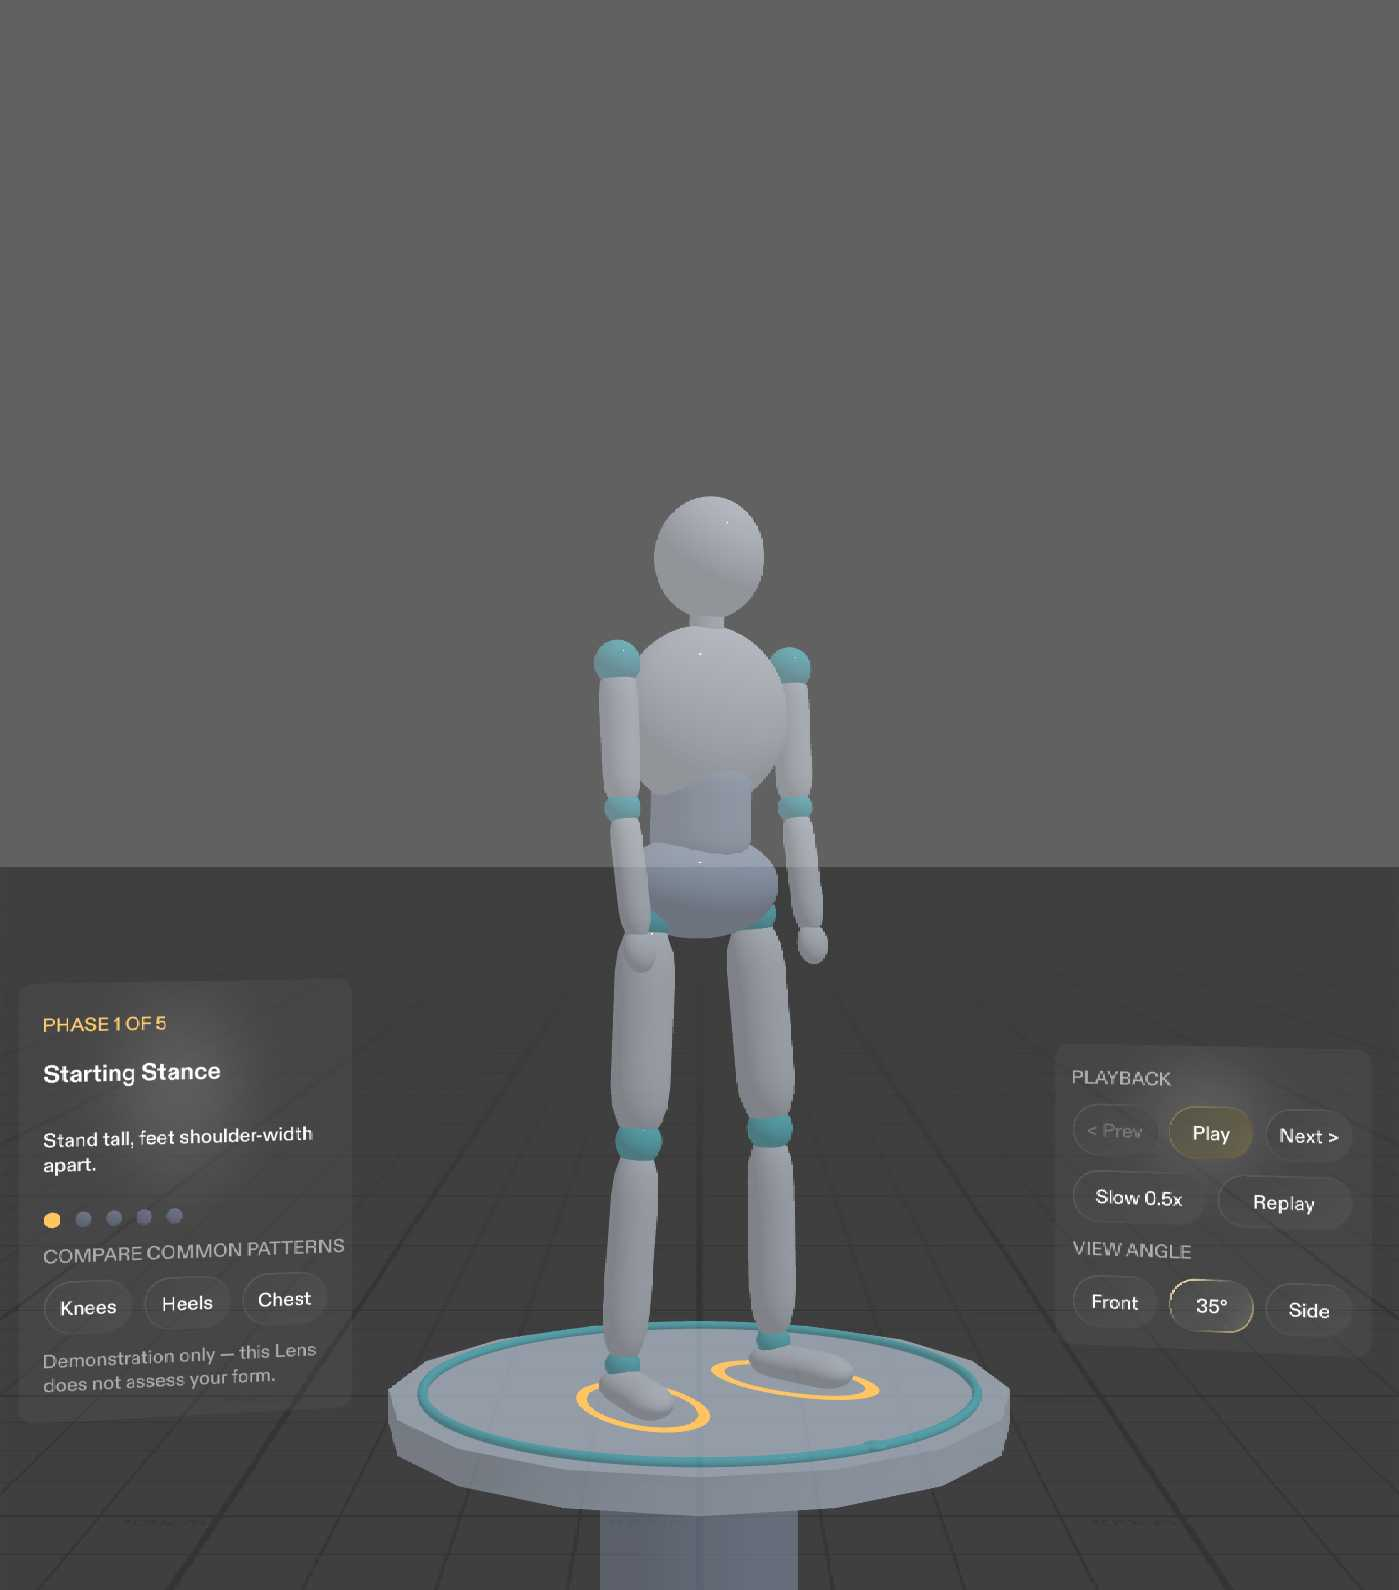
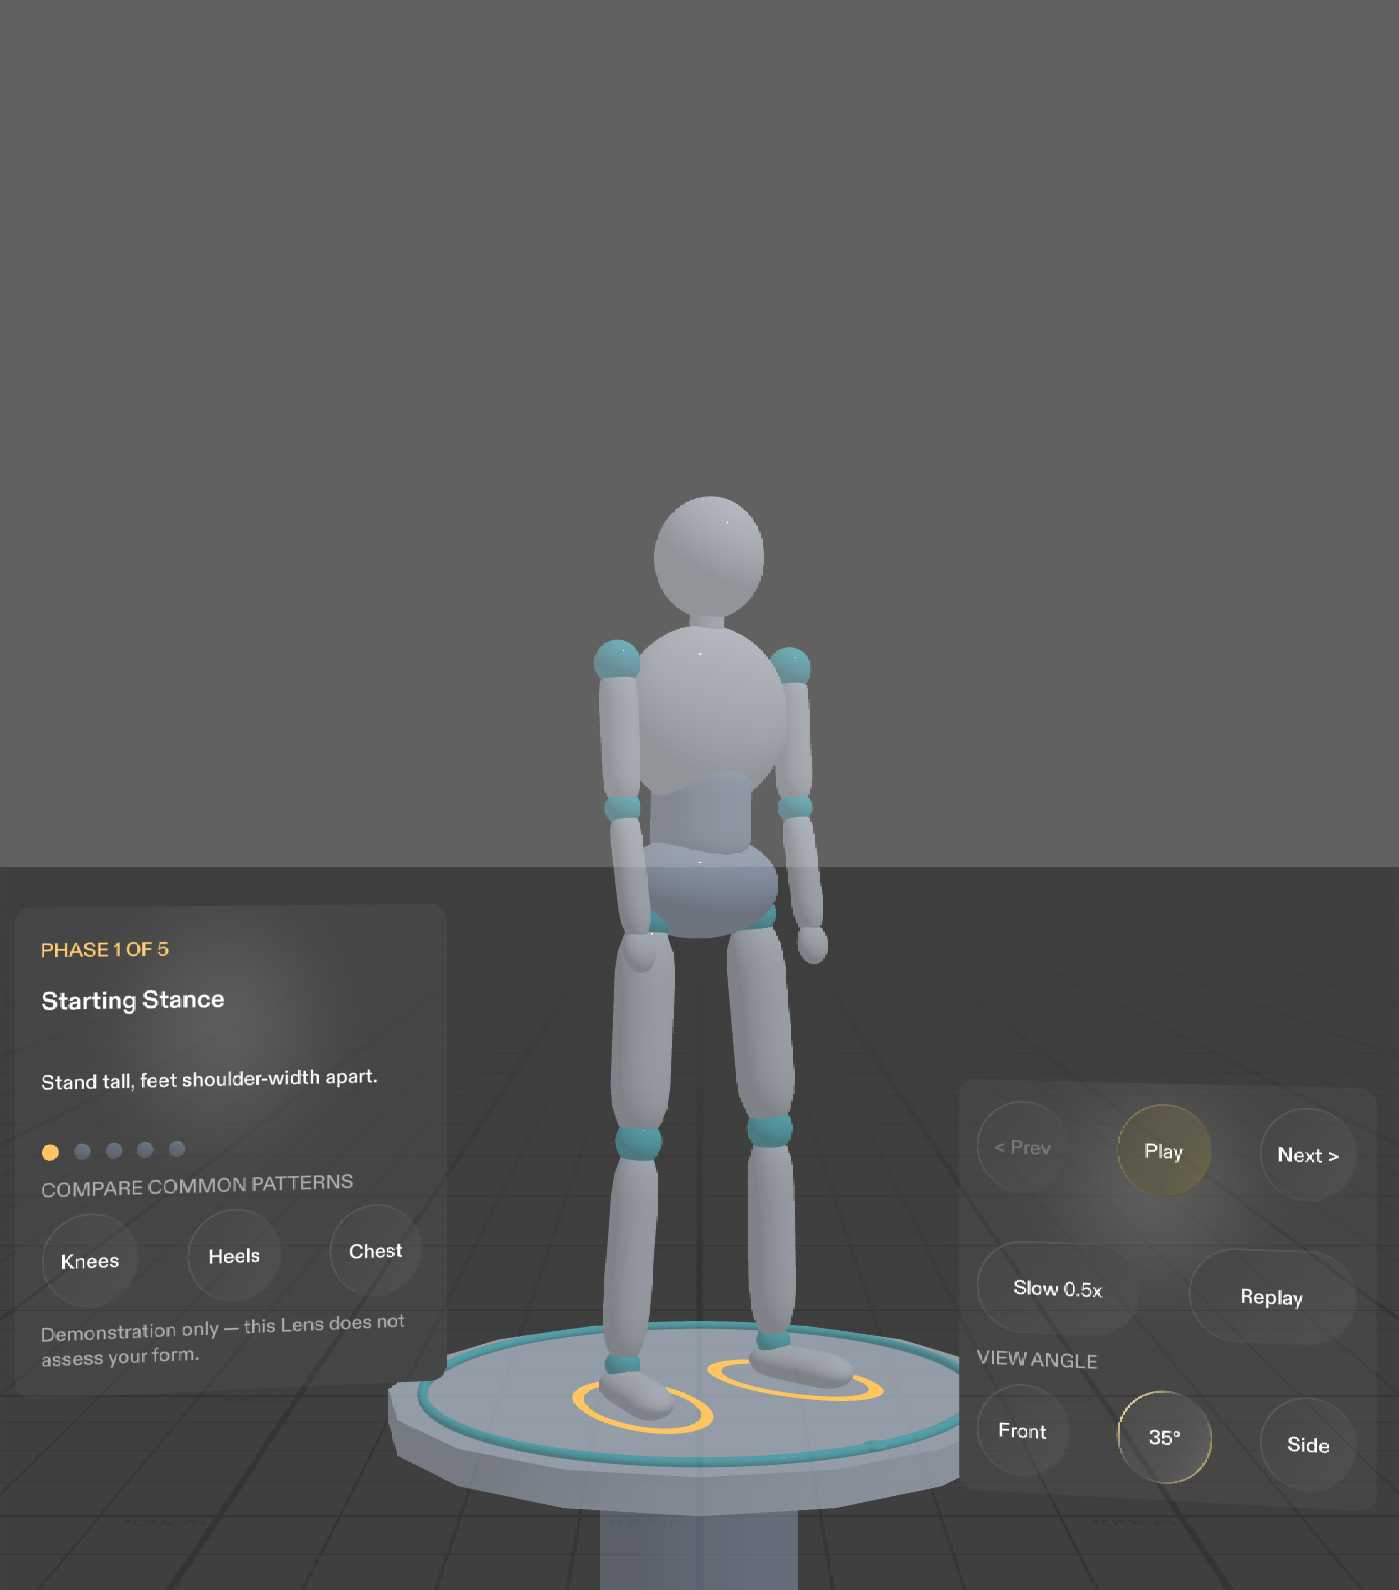
docs(screenshots): recapture the final set for 83e71bc, archive the old set
All 15 screenshots were recaptured in the Lens Studio 5.24.1 preview
(SPECS 27, Interactive) from the start position, using the capture hook.
07 is a crop of 04. The 31 Oct pre-build set moves unchanged to
docs/screenshots/archive-2026-10-31/ with a header marking it historical.

diff --git a/docs/screenshots/README.md b/docs/screenshots/README.md
@@ -1,30 +1,27 @@
-# Screenshot index
+# Screenshot index (final build)
 
-All images are real captures of the running Lens in the **Lens Studio 5.24.1 preview** (device SPECS 27, Interactive input). None are Scene-viewport renders or edited images.
+**Status: FINAL for build `83e71bc`** (branch `feature/coach-eye`), captured on 1 Nov 2026. The earlier set (31 Oct 2026, pre-build copy and 3.4 cm buttons) is archived, unchanged, in `archive-2026-10-31/`. Use only this folder for the README, Devpost and the video plan.
 
-**Build:** branch `feature/coach-eye`, captured on 31 Oct 2026, and every image matches the final build `2201d21`:
-- `01`–`06` and `08`–`12` come from `0029122`. Later commits changed only the comparison card and pattern poses, which these screens don't show.
-- `13` comes from `643a8bb`, `15` from `78381e9` (after the chest-arm fix), and `14` from `2201d21` (after the view-label fix).
-- `07` is from the `main` build: a close-up of the control panel, which is unchanged.
+All images are real captures of the running Lens in the **Lens Studio 5.24.1 preview** (device SPECS 27, Interactive input), taken with the Preview panel capture tool at 1399 × 1590 px. None are Scene-viewport renders or edited images; `07` is a crop of `04` (nothing else is changed). They show preview behaviour only, not SPECS hardware.
 
-Each shot is taken from the user's start position (preview camera reset to the origin). Phase, angle and comparison shots were opened directly with the controller's capture hook (`startPhase` / `startAngle` / `startFault`). The hook is off by default (−1 / empty) and isn't used in normal launches.
+Each shot is taken from the user's start position (preview camera not moved). Phase, angle and comparison shots were opened with the controller's capture hook (`startPhase` / `startAngle` / `startFault`); `11` used `startPhase` 5, which autoplays to the end. The hook was reset to normal launch (−1 / empty) and saved afterwards.
 
 | File | Shows |
 |---|---|
-| `01-hero-intro.jpg` | First launch: intro card ("Watch a squat in five phases. Then compare three common patterns…"), disclaimer, the figure at 35°, and Start. |
-| `02-phase1-starting-stance.jpg` | Phase 1 with thin amber foot outlines; Prev dimmed; the "COMPARE COMMON PATTERNS" row. |
-| `03-phase2-controlled-descent.jpg` | Phase 2 with knee arrows along the toes. |
-| `04-phase3-bottom-position.jpg` | Phase 3 (target Bottom Position) with the hip marker. |
-| `05-phase4-rising-up.jpg` | Phase 4, more upright than the descent. |
+| `01-hero-intro.jpg` | First launch: "SPATIAL SQUAT COMPARISON", "Coach's Eye", the approved intro sentence (4 lines), the disclaimer, and Start (22.4 × 5.8 cm). |
+| `02-phase1-starting-stance.jpg` | Phase 1 with amber foot outlines; Prev dimmed; "COMPARE COMMON PATTERNS" with Knees, Heels and Chest. |
+| `03-phase2-controlled-descent.jpg` | Phase 2 with knee arrows. |
+| `04-phase3-bottom-position.jpg` | Phase 3 (Bottom Position) with the hip marker, default 35° view. |
+| `05-phase4-rising-up.jpg` | Phase 4 with knee arrows. |
 | `06-phase5-standing-finish.jpg` | Phase 5 with the completion ring; Next dimmed. |
-| `07-playback-interface.jpg` | Close-up of the control panel (from the `main` build; panel unchanged). |
+| `07-playback-interface.jpg` | Close-up of the control panel (crop of `04`): Prev / Play / Next, Slow 0.5x / Replay, VIEW ANGLE Front / 35° / Side. |
 | `08-view-front.jpg` | Front view at the Bottom Position. |
 | `09-view-35-degrees.jpg` | Default 35° view at the Bottom Position (same frame as `04`). |
 | `10-view-side.jpg` | Side view at the Bottom Position. |
 | `11-completion.jpg` | Completion: "Squat complete. Try Knees, Heels or Chest below to compare a common pattern, or Replay." |
 | `12-extra-rising-up-side.jpg` | Side view of Rising Up. |
-| `13-mistake-knees-front.jpg` | Knees comparison, front view: "BEST SEEN FROM THE FRONT"; red knees inside the white knees; "PINCH AGAIN TO RETURN"; exaggeration note. |
-| `14-mistake-heels-side.jpg` | Heels comparison, side view: "SEEN FROM THE SIDE OR REAR"; red heels raised (the raised red thigh and shin are the most visible part; see the audit). |
-| `15-mistake-chest-side.jpg` | Chest comparison, side view: "BEST SEEN FROM THE SIDE"; red torso and head further forward; arms keep the target's angle. |
+| `13-mistake-knees-front.jpg` | Knees, "VIEW: FRONT": red knees inside the white knees and knee markers; "Red: … / White (reference): …"; "PINCH AGAIN TO RETURN"; exaggeration note. |
+| `14-mistake-heels-side.jpg` | Heels, "VIEW: SIDE": red legs faded, red feet solid with the heel raised beside the flat white foot; foot outlines. |
+| `15-mistake-chest-side.jpg` | Chest, "VIEW: SIDE": red torso and head further forward; no hip marker; the red hands stay above the control panel. |
 
 File names keep the `mistake` prefix for link stability; the Lens itself says "common pattern".

diff --git a/docs/screenshots/archive-2026-10-31/README.md b/docs/screenshots/archive-2026-10-31/README.md
@@ -1,0 +1,32 @@
+> **ARCHIVED (historical).** This is the pre-build screenshot set from 31 Oct 2026 (old copy, 3.4 cm buttons, "White (target)", "BEST SEEN FROM…" labels). It is kept for comparison and for the v1 layout-audit calibration. The final set is in `docs/screenshots/` (see `../README.md`). Paths below are relative to this folder.
+
+# Screenshot index
+
+All images are real captures of the running Lens in the **Lens Studio 5.24.1 preview** (device SPECS 27, Interactive input). None are Scene-viewport renders or edited images.
+
+**Build:** branch `feature/coach-eye`, captured on 31 Oct 2026, and every image matches the final build `2201d21`:
+- `01`–`06` and `08`–`12` come from `0029122`. Later commits changed only the comparison card and pattern poses, which these screens don't show.
+- `13` comes from `643a8bb`, `15` from `78381e9` (after the chest-arm fix), and `14` from `2201d21` (after the view-label fix).
+- `07` is from the `main` build: a close-up of the control panel, which is unchanged.
+
+Each shot is taken from the user's start position (preview camera reset to the origin). Phase, angle and comparison shots were opened directly with the controller's capture hook (`startPhase` / `startAngle` / `startFault`). The hook is off by default (−1 / empty) and isn't used in normal launches.
+
+| File | Shows |
+|---|---|
+| `01-hero-intro.jpg` | First launch: intro card ("Watch a squat in five phases. Then compare three common patterns…"), disclaimer, the figure at 35°, and Start. |
+| `02-phase1-starting-stance.jpg` | Phase 1 with thin amber foot outlines; Prev dimmed; the "COMPARE COMMON PATTERNS" row. |
+| `03-phase2-controlled-descent.jpg` | Phase 2 with knee arrows along the toes. |
+| `04-phase3-bottom-position.jpg` | Phase 3 (target Bottom Position) with the hip marker. |
+| `05-phase4-rising-up.jpg` | Phase 4, more upright than the descent. |
+| `06-phase5-standing-finish.jpg` | Phase 5 with the completion ring; Next dimmed. |
+| `07-playback-interface.jpg` | Close-up of the control panel (from the `main` build; panel unchanged). |
+| `08-view-front.jpg` | Front view at the Bottom Position. |
+| `09-view-35-degrees.jpg` | Default 35° view at the Bottom Position (same frame as `04`). |
+| `10-view-side.jpg` | Side view at the Bottom Position. |
+| `11-completion.jpg` | Completion: "Squat complete. Try Knees, Heels or Chest below to compare a common pattern, or Replay." |
+| `12-extra-rising-up-side.jpg` | Side view of Rising Up. |
+| `13-mistake-knees-front.jpg` | Knees comparison, front view: "BEST SEEN FROM THE FRONT"; red knees inside the white knees; "PINCH AGAIN TO RETURN"; exaggeration note. |
+| `14-mistake-heels-side.jpg` | Heels comparison, side view: "SEEN FROM THE SIDE OR REAR"; red heels raised (the raised red thigh and shin are the most visible part; see the audit). |
+| `15-mistake-chest-side.jpg` | Chest comparison, side view: "BEST SEEN FROM THE SIDE"; red torso and head further forward; arms keep the target's angle. |
+
+File names keep the `mistake` prefix for link stability; the Lens itself says "common pattern".
